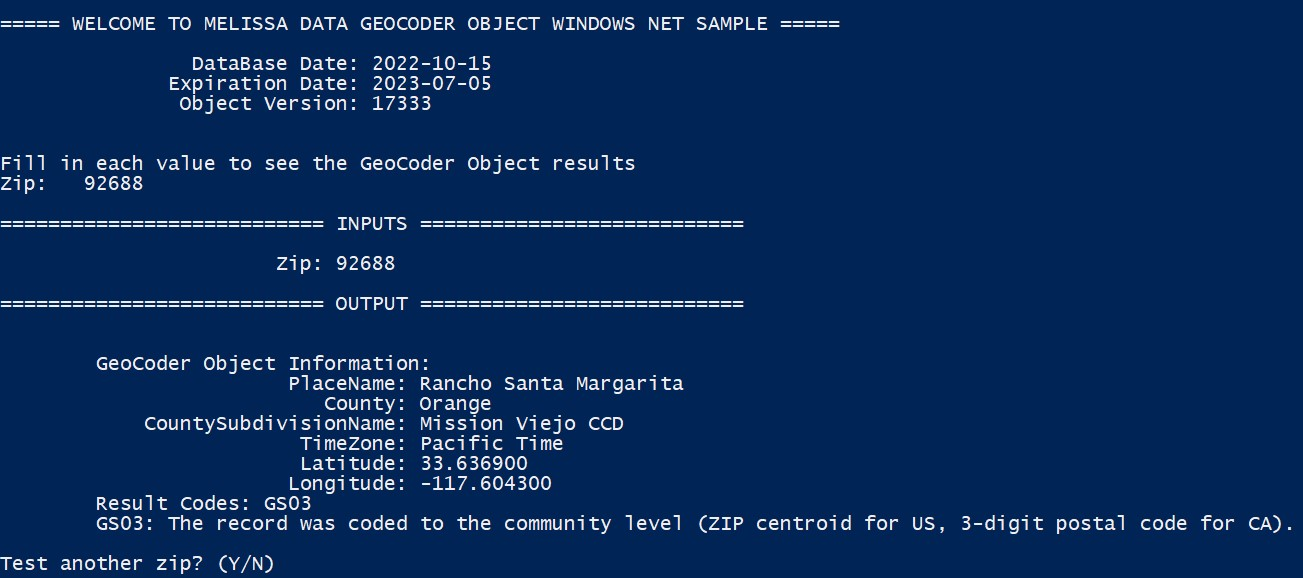
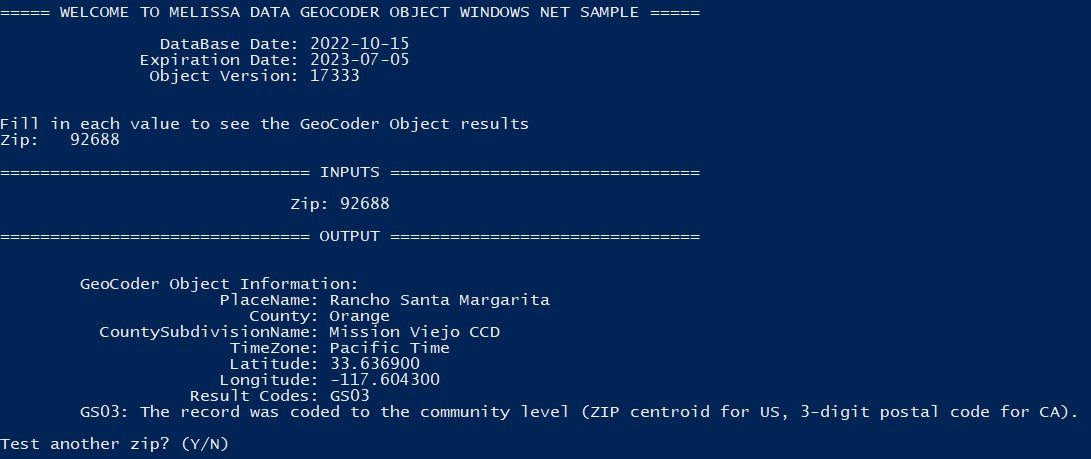
Commit C# Dotnet sample code for GeoCoder Object with .NET 7.0

diff --git a/MelissaDataGeoCoderObjectWindowsNETSample/Program.cs b/MelissaDataGeoCoderObjectWindowsNETSample/Program.cs
@@ -79,22 +79,22 @@ namespace MelissaDataGeoCoderObjectWindowsNETSample
         }
 
         //Print user input 
-        Console.WriteLine("\n=========================== INPUTS ===========================\n");
-        Console.WriteLine($"\t               Zip: {dataContainer.Zip}");
+        Console.WriteLine("\n=============================== INPUTS ===============================\n");
+        Console.WriteLine($"\t                     Zip: {dataContainer.Zip}");
 
         // Execute GeoCoder Object
         geoObject.ExecuteObjectAndResultCodes(ref dataContainer);
 
         // Print Output
-        Console.WriteLine("\n=========================== OUTPUT ===========================\n");
+        Console.WriteLine("\n=============================== OUTPUT ===============================\n");
         Console.WriteLine("\n\tGeoCoder Object Information:");
-        Console.WriteLine($"\t                PlaceName: {geoObject.mdGeoObj.GetPlaceName()}");
-        Console.WriteLine($"\t                   County: {geoObject.mdGeoObj.GetCountyName()}");
-        Console.WriteLine($"\t    CountySubdivisionName: {geoObject.mdGeoObj.GetCountySubdivisionName()}");
-        Console.WriteLine($"\t                 TimeZone: {geoObject.mdGeoObj.GetTimeZone()}");
-        Console.WriteLine($"\t                 Latitude: {geoObject.mdGeoObj.GetLatitude()}");
-        Console.WriteLine($"\t                Longitude: {geoObject.mdGeoObj.GetLongitude()}");
-        Console.WriteLine($"\tResult Codes: {dataContainer.ResultCodes}");
+        Console.WriteLine($"\t              PlaceName: {geoObject.mdGeoObj.GetPlaceName()}");
+        Console.WriteLine($"\t                 County: {geoObject.mdGeoObj.GetCountyName()}");
+        Console.WriteLine($"\t  CountySubdivisionName: {geoObject.mdGeoObj.GetCountySubdivisionName()}");
+        Console.WriteLine($"\t               TimeZone: {geoObject.mdGeoObj.GetTimeZone()}");
+        Console.WriteLine($"\t               Latitude: {geoObject.mdGeoObj.GetLatitude()}");
+        Console.WriteLine($"\t              Longitude: {geoObject.mdGeoObj.GetLongitude()}");
+        Console.WriteLine($"\t           Result Codes: {dataContainer.ResultCodes}");
 
         String[] rs = dataContainer.ResultCodes.Split(',');
         foreach (String r in rs)

diff --git a/README.md b/README.md
@@ -27,7 +27,7 @@ For Canada:
 
 ## Tested Environments
 
-- Windows 64-bit .NET 6.0, .NET 5.0, .NET Core 3.1
+- Windows 64-bit .NET 7.0, .NET 6.0, .NET 5.0, .NET Core 3.1
 - Powershell 5.1
 - Melissa data files for 2022-12
 
@@ -43,28 +43,28 @@ This is the c++ version of the Melissa Data Object.
 ## Getting Started
 These instructions will get you a copy of the project up and running on your local machine for development and testing purposes.
 
-This project is compatible with .NET 6.0, .NET 5.0, and .NET Core 3.1. If you would like to run this project for any other version besides .NET 6.0, proceed with the following procedures but check for and download your desired .NET version.
+This project is compatible with .NET 7.0, .NET 6.0, .NET 5.0, and .NET Core 3.1. If you would like to run this project for any other version besides .NET 7.0, proceed with the following procedures but check for and download your desired .NET version.
 
 #### Install the Dotnet Core SDK
-Before starting, make sure that the .NET 6.0 SDK has been correctly installed on your machine (If you have Visual Studio installed, you most likely have it already). If you are unsure, you can check by opening a command prompt window and typing the following:
+Before starting, make sure that the .NET 7.0 SDK has been correctly installed on your machine (If you have Visual Studio installed, you most likely have it already). If you are unsure, you can check by opening a command prompt window and typing the following:
 
 `dotnet --list-sdks`
 
-If the .NET 6.0 SDK is already installed, you should see it in the following list:
+If the .NET 7.0 SDK is already installed, you should see it in the following list:
 
 ![alt text](/screenshots/dotnet_output.png)
 
-As long as the above list contains version `6.0.xxx` (underlined in red), then you can skip to the next step. If your list does not contain version 6.0, or you get any kind of error message, then you will need to download and install the .NET 6.0 SDK from the Microsoft website.
+As long as the above list contains version `7.0.xxx` (underlined in red), then you can skip to the next step. If your list does not contain version 7.0, or you get any kind of error message, then you will need to download and install the .NET 7.0 SDK from the Microsoft website.
 
 To download, follow this link: https://dotnet.microsoft.com/en-us/download/dotnet
 
-Select `.NET 6.0` and you will be navigated to the download page.
+Select `.NET 7.0` and you will be navigated to the download page.
 
 Click and download the `x64` SDK installer for your operating system.
 
 (IMPORTANT: Make sure you download the SDK, NOT the runtime. the SDK contains both the runtime as well as the tools needed to build the project.)
 
-![alt text](/screenshots/net6.png)
+![alt text](/screenshots/net7.png)
 
 Once clicked, your web browser will begin downloading an installer for the SDK. Run the installer and follow all of the prompts to complete the installation (your computer may ask you to restart before you can continue). Once all of that is done, you should be able to verify that the SDK is installed with the `dotnet --list-sdks` command.
 
@@ -107,13 +107,14 @@ Melissa Updater is a CLI application allowing the user to update their Melissa a
 
 Depending on your target .NET framework, you may need to configure the powershell script. In order to do this, open up the `MelissaDataGeoCoderObjectWindowsNETSample.ps1` for editing, proceed to the bottom of the script where you will find this section of code.
 
-Default set for .NET 6.0
+Default set for .NET 7.0
 ```
-dotnet publish -f="net6.0" -c Release -o $BuildPath MelissaDataGeoCoderObjectWindowsNETSample\MelissaDataGeoCoderObjectWindowsNETSample.csproj
+dotnet publish -f="net7.0" -c Release -o $BuildPath MelissaDataGeoCoderObjectWindowsNETSample\MelissaDataGeoCoderObjectWindowsNETSample.csproj
+#dotnet publish -f="net6.0" -c Release -o $BuildPath MelissaDataGeoCoderObjectWindowsNETSample\MelissaDataGeoCoderObjectWindowsNETSample.csproj
 #dotnet publish -f="net5.0" -c Release -o $BuildPath MelissaDataGeoCoderObjectWindowsNETSample\MelissaDataGeoCoderObjectWindowsNETSample.csproj
 #dotnet publish -f="netcoreapp3.1" -c Release -o $BuildPath MelissaDataGeoCoderObjectWindowsNETSample\MelissaDataGeoCoderObjectWindowsNETSample.csproj
 ```
-The target framework is specified with the -f flag found in the command line. If you wish to use any version besides .NET 6.0, please uncomment the line containing that framework and comment out the line containing the .NET 6.0 framework (# to comment).
+The target framework is specified with the -f flag found in the command line. If you wish to use any version besides .NET 7.0, please uncomment the line containing that framework and comment out the line containing the .NET 7.0 framework (# to comment).
 
 ## Run Powershell Script
 Parameters:
